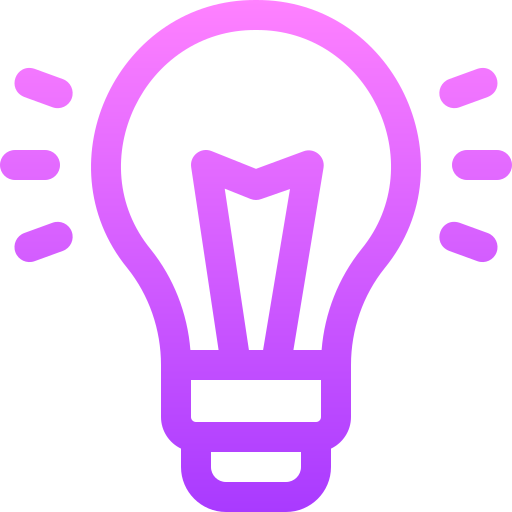
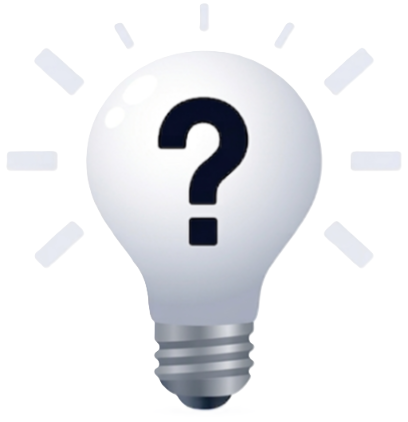
Finished AI Agent

diff --git a/public/src/components/ai-agent/ai-agent.css b/public/src/components/ai-agent/ai-agent.css
@@ -1396,9 +1396,7 @@
   display: flex;
   align-items: center;
   justify-content: center;
-  /* background: var(--gradient-accent); */
-  /* background: linear-gradient(135deg, #FFD874 0%, #FF8C69 50%, #FF6B7A 100%); */
-  background: linear-gradient(135deg, #4F6EF7 0%, #A855F7 100%);;
+  background: linear-gradient(135deg, #4F6EF7 0%, #A855F7 100%);
   color: #fff;
   cursor: pointer;
   box-shadow: var(--shadow-lg);
@@ -1407,7 +1405,8 @@
 
 .ai-agent-fab:hover {
   transform: translateY(-2px) scale(1.05);
-  box-shadow: 0 10px 24px rgba(0, 0, 0, 0.35);
+  /* box-shadow: 0 10px 24px rgba(0, 0, 0, 0.35); */
+  box-shadow: 0 6px 16px rgba(255, 107, 122, 0.5), 0 3px 6px rgba(0, 0, 0, 0.15);
 }
 
 .ai-agent-fab:active {
@@ -1415,8 +1414,8 @@
 }
 
 .ai-agent-fab-logo {
-  width: 34px;
-  height: 34px;
+  width: 60%;
+  height: 60%;
   object-fit: contain;
   pointer-events: none;
 }

diff --git a/public/src/styles/markdown.css b/public/src/styles/markdown.css
@@ -46,7 +46,7 @@
 .formal-answer b,
 .formal-answer-text strong,
 .formal-answer-text b {
-  font-weight: 700;
+  font-weight: 850;
   color: var(--color-text-primary);
 }
 
